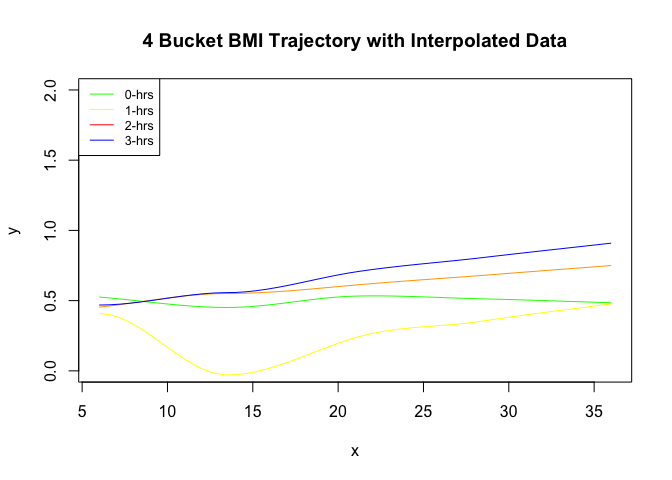
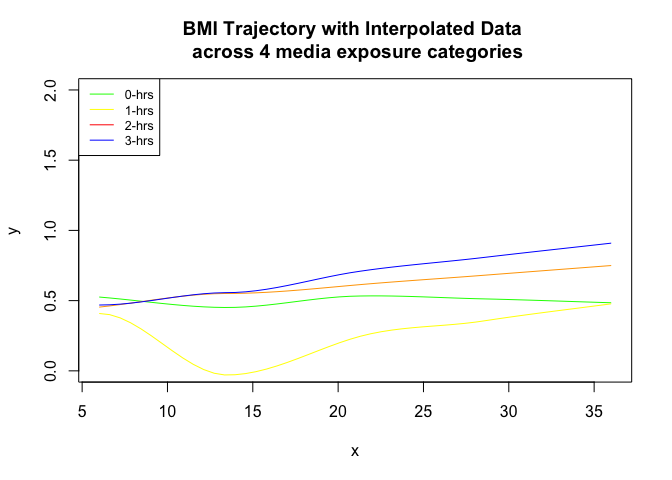
Task 2 Done

Changed region(s): [[0.2188, 0.0312, 0.8438, 0.125]]

diff --git a/src/zarni/03_Loess_Smoothing.md b/src/zarni/03_Loess_Smoothing.md
@@ -44,7 +44,8 @@ print(dim(bmi_media_raw[complete.cases(bmi_media_raw),]))
 
     ## [1] 332   4
 
-### Check the Distribution of Media Exposure
+Check the Distribution of Media Exposure
+----------------------------------------
 
 -   Question: If we are checking the distribution of media exposure, should not we be checking the distribution of other variables too?
 
@@ -55,9 +56,9 @@ plot(density(bmi_media$Media), main = "Density of Media Exposure")
 
 ![](03_Loess_Smoothing_files/figure-markdown_github/unnamed-chunk-4-1.png)
 
-As expected, there are a lot of zeros. What does zero Media Exposure hours mean? It could mean that some of the subjects (kids) actually are not exposed to media at all. It could also mean that there are some self-reported errors in the data collection.
+As expected, there are a lot of zeros. What does zero media exposure hours mean? It could mean that some of the subjects (kids) actually are not exposed to media at all. It could also mean that there are some self-reported errors in the data collection.
 
-Transforming Media Exposure to adjust for the zeros
+Transforming media exposure to adjust for zero inflation
 
 ``` r
 media_trans <- bmi_media$Media
@@ -77,9 +78,10 @@ plot(density(media_trans_4), main = "Log_0.5 Density of Media Exposure")
 
 ![](03_Loess_Smoothing_files/figure-markdown_github/unnamed-chunk-6-1.png)
 
-### Trajectory for Linearly Interpolated Data Set
+Trajectory for Linearly Interpolated Data Set
+---------------------------------------------
 
-#### 1: LOESS application of 1 month interval at each time cut point
+#### LOESS application of 1 month interval at each time cut point
 
 The goal here is to bin media usage to 5 categories (0 hrs, 1 hrs, 2 hrs, 3 hrs and 4 hrs) starting from a baseline of 6 months. Then, we will follow the trajectory for these *same* subjectIDs for 13.5 months, 21 months, 28.5 months and 36 months.
 
@@ -163,7 +165,7 @@ base_l4 <- base_alltime[base_alltime$ID %in% base6_l4$ID,]
 x<- c(6, 13.5, 21, 28.5, 36)
 y<- c(-4.86, -0.39, 0.40, 1.18, 4.98)
 
-plot(x, y, type = "n", main = "4 Bucket BMI Trajectory with Interpolated Data", ylim = c(0,2))
+plot(x, y, type = "n", main = "BMI Trajectory with Interpolated Data \n across 4 media exposure categories", ylim = c(0,2))
 lines(loess.smooth(x = base_l1$Months, y = base_l1$zBMI), col = "green")
 lines(loess.smooth(x = base_l2$Months, y = base_l2$zBMI), col = "yellow")
 lines(loess.smooth(x = base_l3$Months, y = base_l3$zBMI), col = "orange")
@@ -173,9 +175,10 @@ legend("topleft", legend = c("0-hrs", "1-hrs", "2-hrs", "3-hrs"), col = c("green
 
 ![](03_Loess_Smoothing_files/figure-markdown_github/unnamed-chunk-12-1.png)
 
-### BMI Trajectories for Raw Data at baseline of 6 months
+Trajectory of zBMI for raw data with baseline Media Exposure categories at 6 months
+-----------------------------------------------------------------------------------
 
-#### Generating Raw Data Set to generate zBMI trajectories
+#### Generating Raw Dataset to plot zBMI trajectories
 
 ``` r
 head(bmi_media_raw)
@@ -189,7 +192,7 @@ head(bmi_media_raw)
     ## 5  1 4.3039017    NA -1.1837007
     ## 6  1 6.3737168    NA -2.5585830
 
-\*\* Initial Data Explorations \*\*
+##### Initial Data Explorations
 
 ``` r
 #Number of unique subjectIDs
@@ -211,9 +214,9 @@ hist(bmi_media_raw$Months, main = "Months Distribution")
 
 ![](03_Loess_Smoothing_files/figure-markdown_github/unnamed-chunk-15-2.png)
 
-\*\* Binning the Baseline 6 months \*\*
+##### Binning the Baseline 6 months
 
-In the graphical report from Belle Lab, the month intervals are segemented at 6, 13.5, 21, 28.5 and 36 months. With an average interval of at least 6 months between each time period, we are going to collapse the raw data months centered at the above periods by 3 months each way.
+In the graphical report from Belle Lab, the month intervals are segemented at 6, 13.5, 21, 28.5 and 36 months. With an average interval of at least 6 months between each time period, we are going to have an interval of 6 months with the above listed cut off months at its center.
 
 ``` r
 baseline <- bmi_media_raw
@@ -221,7 +224,7 @@ baseline <- bmi_media_raw
 baseline[baseline$Months >=3 & baseline$Months <= 9,]$Months <- 6
 ```
 
-Pulling the 6 months data set out to **categorize** the subjectIDs by their Media Exposure quantiles.
+Pulling the 6 months dataset out to **categorize** the subjectIDs by their media exposure quantiles.
 
 ``` r
 baseline_6months <- baseline[baseline$Months == 6, ]
@@ -238,15 +241,10 @@ print(537-520)
 
     ## [1] 17
 
--   For each subjectID, how many has 1 instance of non-NA media exposure value at 6 months? \*
+-   For each subjectID, how many has 1 instance of non-NA media exposure value at 6 months?
 
 ``` r
 baseline_6_media_nonNA <- baseline_6months %>% group_by(ID) %>% summarise(non_na_count = sum(!is.na(Media)))
-```
-
-    ## Warning: package 'bindrcpp' was built under R version 3.3.2
-
-``` r
 print(dim(baseline_6_media_nonNA)) #460 subjectIDs
 ```
 
@@ -266,7 +264,8 @@ head(baseline_6_media_nonNA)
     ## 5     5            1
     ## 6     6            1
 
--   Out of the 520 subjectIDs, how many has the non-NA values for Media exposure at 6 months? <br /> What percentage of the subjectIDs does it correspond to? \*
+-   Out of the 520 subjectIDs, how many has the non-NA values for Media exposure at 6 months?
+-   What percentage of the subjectIDs does it correspond to?
 
 ``` r
 print(sum(baseline_6_media_nonNA$non_na_count)) #289
@@ -281,25 +280,15 @@ print((372/520) * 100)
 
     ## [1] 71.53846
 
-\*\* Check the distribution of Media Exposure values at baseline 6 months \*\*
+##### Check the distribution of Media Exposure values at baseline 6 months
 
 ``` r
 plot(hist(baseline_6months$Media, na.rm = TRUE), main = "Media Distribution at 6 months")
 ```
 
-    ## Warning in plot.window(xlim, ylim, "", ...): "na.rm" is not a graphical
-    ## parameter
-
-    ## Warning in title(main = main, sub = sub, xlab = xlab, ylab = ylab, ...):
-    ## "na.rm" is not a graphical parameter
-
-    ## Warning in axis(1, ...): "na.rm" is not a graphical parameter
-
-    ## Warning in axis(2, ...): "na.rm" is not a graphical parameter
-
 ![](03_Loess_Smoothing_files/figure-markdown_github/unnamed-chunk-20-1.png)![](03_Loess_Smoothing_files/figure-markdown_github/unnamed-chunk-20-2.png)
 
-Use cut to divide into 0,1,2,3, and above 4 hrs to best reflect the divisions by slide **38** of presentation material from Belle Research Group.
+Using the cut function to divide into 0,1,2,3, and above 4 hrs categories to best reflect the divisions by slide **38** of presentation material from Belle Research Group.
 
 ``` r
 labels <- c("0hrs", "1hrs", "2hrs", "3hrs", "4hrs")
@@ -320,7 +309,7 @@ sum(bmi_1_hr_raw, na.rm = TRUE)
 
     ## [1] 157.2332
 
-In the raw data set, there are those that have the media exposure between 1 to 2 hours. However, as can be seen below, if we use our baseline 6 months data, those subject IDs drop. In fact, I have increased the interval around 6 months to an 8 month interval and it still would not capture those subject IDs.
+In the raw data set, there are those that have the media exposure between 1 to 2 hours. However, as can be seen below, if we use our baseline 6 months data, those subject IDs drop. In fact, I have increased the interval from a six months to an eight months interval and it still would not capture those subject IDs. However, we cannot use an eight months interval because we will not be able to consistently apply across all time cut off points.
 
 Check from Baseline 6 Months data if there are those who have media exposure between 1 to &lt; 2 hrs
 
@@ -331,7 +320,7 @@ sum(bmi_1_hr_baseline$Media, na.rm = TRUE)
 
     ## [1] 0
 
-\*\* Subset the subjectIDs only with Media Exposure Hrs at 6 months and map it back to Raw Data \*\*
+##### Subset the subjectIDs only with Media Exposure Hrs at 6 months and map it back to Raw Data
 
 ``` r
 baseline_6_media_nonNA <- baseline_6months[!is.na(baseline_6months$MediaCategory),]
@@ -361,7 +350,7 @@ print((368/520) * 100)
 
     ## [1] 70.76923
 
-Need to collapse time months onto 13.5, 21, 28.5 and 36 months using a 6 month interval centered around those months
+Need to collapse time months onto 13.5, 21, 28.5 and 36 months using a six months interval centered around those months
 
 ``` r
 baseline_cat[baseline_cat$Months.x >=10.5 & baseline_cat$Months.x <= 16.5, ]$Months.x <- 13.5
@@ -370,7 +359,7 @@ baseline_cat[baseline_cat$Months.x >=25.5 & baseline_cat$Months.x <= 31.5, ]$Mon
 baseline_cat[baseline_cat$Months.x >=33 & baseline_cat$Months.x <= 39, ]$Months.x <- 36
 ```
 
-Subsetting the data to only the timepoints at 6, 13.5, 21, 28.5 and 36 months
+Subsetting the data to only the time points at 6, 13.5, 21, 28.5 and 36 months
 
 ``` r
 baseline_cat_months <- dplyr::filter(baseline_cat, Months.x == 6 | Months.x == 13.5 | Months.x == 21 | Months.x == 28.5 | Months.x == 36)
@@ -385,7 +374,7 @@ head(baseline_cat_months)
     ## 5  1     13.5 4.948760        NA          4hrs
     ## 6  2      6.0 4.330733  1.051928          4hrs
 
-Checking the number of unique SubjectIDs after subsetting by time
+Checking the number of unique SubjectIDs after subsetting by time points
 
 ``` r
 print(length(unique(baseline_cat_months$ID))) #368
@@ -393,9 +382,9 @@ print(length(unique(baseline_cat_months$ID))) #368
 
     ## [1] 368
 
-We have suffered zero loss of data in our choice of interval.
+We have suffered zero loss of data (i.e subjectID) in our choice of interval
 
-Saving the 5 x 5, Media Exposure categories and Year(Month) intermediate data set
+Saving the media exposure categories and year(month) intermediate data set
 
 ``` r
 write.csv(baseline_cat_months, "../../data/Intermediate/baseline_media_months.csv")
@@ -407,11 +396,9 @@ write.csv(baseline_cat_months, "../../data/Intermediate/baseline_media_months.cs
 baseline_cat_months <- import("../../data/Intermediate/baseline_media_months.csv")
 ```
 
-\*\* Objective \*\*
+##### Objective
 
 At each time interval for each media exposure category, what is the average bmi value when NAs are removed?
-
-Use tapply here
 
 ``` r
 baseline_media_months_final <- tapply(baseline_cat_months$zBMI.x, list(baseline_cat_months$Months.x, baseline_cat_months$MediaCategory), mean, na.rm = TRUE)
@@ -425,9 +412,9 @@ head(baseline_media_months_final)
     ## 28.5  0.575634065  0.51832566 0.9106296 0.4662354
     ## 36    0.863053618  0.47233573 0.7872329 0.7040446
 
-As expected from above the 1 hr Media Exposure category is missing. Therefore, we have 5x4 matrix to draw trajectories on.
+As expected from above the 1 hr Media Exposure category is missing. Therefore, we have 5x4 matrix to draw trajectories from.
 
-Save the final data set
+Saving the final data set
 
 ``` r
 write.csv(baseline_media_months_final, "../../data/final/baseline_media_months.csv")
@@ -440,7 +427,7 @@ baseline_media_months <- import("../../data/final/baseline_media_months.csv")
 colnames(baseline_media_months) <- c("Months", "0hrs", "2hrs", "3hrs", "4hrs")
 ```
 
-Plot the Trajectory Plots and Label them
+#### Plotting the zBMI across 4 Media Exposure categories across time
 
 ``` r
 plot(baseline_media_months$Mo, baseline_media_months$`0hrs`, type = "l", xaxt = "n", main = "4 Bucket BMI Trajectory with Raw Data", xlab = "Months", ylab = "zBMI", ylim = c(-0.4, 1.2),  col = "green")
@@ -453,7 +440,7 @@ legend("topleft", legend = c("0-hrs", "2-hrs", "3-hrs", "4-hrs"), col = c("green
 
 ![](03_Loess_Smoothing_files/figure-markdown_github/unnamed-chunk-34-1.png)
 
-Is it similar to what we have on the slides?
+Is it similar to what we have on the slides? Nope.
 
 <!-- #### 1: LOESS application of across all time periods with base at 6 months -->
 <!-- ```{r} -->
